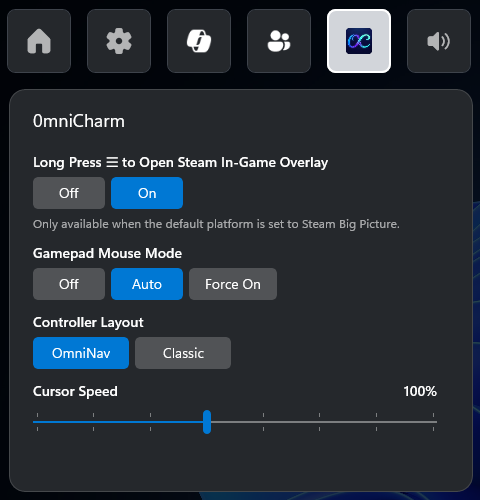
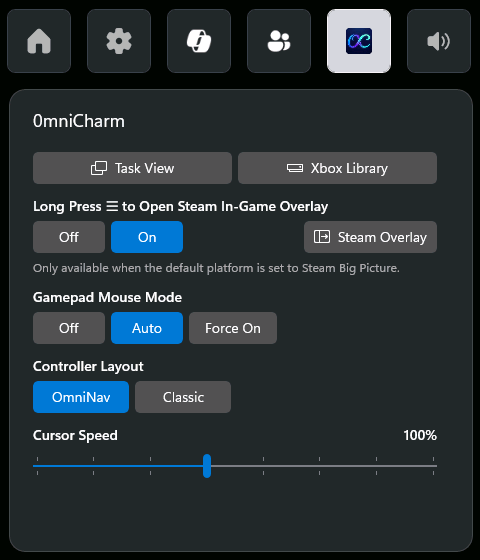
docs: Bump version to 1.9.0.0 and expand OmniCharm shortcuts
- Bumped the application package versions to `1.9.0.0` in `Package.appxmanifest` for both the main app and `OmniConsole.PhantomLink`, and updated the GitHub issue template.
- Expanded the "OmniCharm Widget" feature description in the READMEs to highlight new quick access shortcuts for Task View, the Xbox Library, and the Steam Overlay.
- Updated the Uninstallation section to explicitly instruct users to uninstall the OmniCharm widget via Windows Settings, noting that it does not appear in the Start Menu.
- Standardized references to "Windows Settings" across the document and removed the "(Highly Recommended)" tag from the FSE startup option.
- Refreshed application and widget screenshots (`docs/images/`) to reflect the latest UI updates.

diff --git a/README.zh-TW.md b/README.zh-TW.md
@@ -50,7 +50,7 @@ OmniConsole 作為 Windows 11 全螢幕體驗 (FSE) 首頁殼層，在您的 PC 
 - **疑難排解頁面** – 專屬頁面提供緊急修復途徑：結束 Game Bar 並繞過 FSE 確認對話方塊，直接進入 FSE。
 - **手把支援** – 使用**方向鍵**或**左搖桿**導覽，**A 鍵**確認、**B 鍵**退出、**LB/RB** 切換分類索引標籤、**Y 鍵**新增自訂平台、**X 鍵**編輯、**Menu（☰）鍵**將聚焦平台設為預設並立即啟動（在 FSE 模式中）。
 - **手把滑鼠模式** – 以手把作為滑鼠與鍵盤使用。三種模式：**關閉**、**自動**（瀏覽器、檔案總管、Steam、Epic Games Store）與**強制開啟**（所有應用程式，排除清單除外）。提供兩種控制器版面配置：**OmniNav** 和 **Classic**，可調整游標速度。
-- **OmniCharm 小工具** – Game Bar 小工具，在遊戲中快速切換長按 ☰ 開啟 Steam 遊戲內嵌介面、手把滑鼠模式、控制器版面配置與游標速度。
+- **OmniCharm 小工具** – 提供遊戲中快速存取的 Game Bar 小工具，包含**工作檢視**、**Xbox 媒體櫃**與 **Steam 內嵌介面**捷徑，並可即時切換長按 ☰ 開啟 Steam 遊戲內嵌介面、手把滑鼠模式、控制器版面配置與游標速度。
 - **手把 Steam 快捷鍵** – 為 Steam Big Picture 模式提供手把 **⧉** 按鍵支援：短按開啟 **Steam 選單**，長按喚出**快速存取選單**。在遊戲中長按 **☰** 可開啟 **Steam 遊戲內嵌介面**。
 - **專屬設定入口** – 在「所有應用程式」中獨立顯示「**OmniConsole 設定**」，隨時可更改預設平台。
 - **原生 FSE 整合** – 透過 Windows 11 全螢幕體驗 API 註冊為首頁應用程式。
@@ -81,7 +81,7 @@ OmniConsole 作為 Windows 11 全螢幕體驗 (FSE) 首頁殼層，在您的 PC 
 
 **方式 B：手動安裝**
 
-1.  **[重要]** 前往**設定 → 系統 → 進階**，啟用**開發人員模式**。
+1.  **[重要]** 前往 **Windows 設定 → 系統 → 進階**，啟用**開發人員模式**。
 2.  **[重要]** 點兩下 `.cer` 檔案 → 點選**安裝憑證** → 存放區位置選擇**本機電腦** → **將所有憑證放入以下的存放區** → 瀏覽 → 選擇**受信任的人** → 完成。
 3.  點兩下 `OmniConsole_*_x64.msix` 安裝主程式。
 4.  點兩下 `OmniConsole.PhantomLink_*_x64-widget.msix` 安裝 OmniCharm 小工具。
@@ -106,9 +106,9 @@ OmniConsole 會在**首次啟動**或**應用程式更新後**彈出設定介面
   <img src="docs/images/fse-settings.zh-TW.png" alt="Windows 全螢幕體驗設定" height="221">
 </p>
 
-1.  前往**Windows 設定 → 遊戲 → 全螢幕體驗**。
+1.  前往 **Windows 設定 → 遊戲 → 全螢幕體驗**。
 2.  將「選擇首頁應用程式」設為 **OmniConsole**。
-3.  啟用「**啟動時進入全螢幕體驗**」（**強烈建議**）。
+3.  啟用「**啟動時進入全螢幕體驗**」。
 
 ### 4. 完成！
 
@@ -124,9 +124,10 @@ OmniConsole 會在**首次啟動**或**應用程式更新後**彈出設定介面
 
 > ⚠ **解除安裝前，請務必先變更 FSE 首頁應用程式設定。** 若在 OmniConsole 仍設為 FSE 首頁應用程式的情況下直接解除安裝，部分 Windows 版本的**工作檢視將無法正常開啟**。這是 Windows 本身的 Bug。
 
-1. 前往**設定 → 遊戲 → 全螢幕體驗**。
+1. 前往 **Windows 設定 → 遊戲 → 全螢幕體驗**。
 2. 將「選擇首頁應用程式」改為 **Xbox** 或 **無**。
-3. 從**設定 → 應用程式 → 已安裝的應用程式**中解除安裝 **OmniConsole**，或在開始功能表中對 **OmniConsole** 按右鍵選擇**解除安裝**。
+3. 在開始功能表中對 **OmniConsole** 按右鍵選擇**解除安裝**，或前往 **Windows 設定 → 應用程式 → 已安裝的應用程式**解除安裝。
+4. 前往 **Windows 設定 → 應用程式 → 已安裝的應用程式**解除安裝 **OmniCharm**（小工具不會出現在開始功能表）。
 
 ---
 

diff --git a/README.md b/README.md
@@ -50,7 +50,7 @@ OmniConsole serves as the Windows 11 Full Screen Experience (FSE) Home shell on 
 - **Troubleshoot Page** – A dedicated page for emergency FSE recovery: terminates Game Bar and enters FSE directly, bypassing the FSE confirmation dialog.
 - **Gamepad Support** – Navigate with **D-Pad** or **Left Stick**, press **A** to confirm, **B** to exit, **LB/RB** to switch category tabs, **Y** to add a custom platform, **X** to edit, and **Menu (☰)** to set the focused platform as default and launch it immediately (in FSE mode).
 - **Gamepad Mouse Mode** – Uses your gamepad as a mouse and keyboard. Three modes: **Off**, **Auto** (browsers, File Explorer, Steam, Epic Games Store), and **Force On** (all apps except an exclusion list). Two controller layouts: **OmniNav** and **Classic**, with adjustable cursor speed.
-- **OmniCharm Widget** – A Game Bar widget for quickly toggling long-press ☰ to open Steam In-Game Overlay, switching Gamepad Mouse Mode, changing controller layouts, and adjusting cursor speed during gameplay.
+- **OmniCharm Widget** – A Game Bar widget for in-game quick access to **Task View**, the **Xbox Library**, and the **Steam Overlay**, as well as toggling long-press ☰ to open Steam In-Game Overlay, Gamepad Mouse Mode, controller layouts, and cursor speed.
 - **Gamepad Steam Shortcuts** – Gamepad **⧉** button support for Steam Big Picture mode: short press to open the **Steam Menu**, long press for the **Quick Access Menu**. Long press **☰** in-game to open the **Steam In-Game Overlay**.
 - **Dedicated Settings Entry** – A separate "**OmniConsole Settings**" entry appears in All Apps, so you can change your default platform anytime.
 - **Native FSE Integration** – Registers as a Windows 11 Full Screen Experience Home App through the official FSE API.
@@ -106,9 +106,9 @@ OmniConsole will present the Settings UI on **first launch** or **after app upda
   <img src="docs/images/fse-settings.png" alt="Full Screen Experience Settings" height="221">
 </p>
 
-1.  Go to **Settings → Gaming → Full Screen Experience**.
+1.  Go to **Windows Settings → Gaming → Full Screen Experience**.
 2.  Set "Choose home app" to **OmniConsole**.
-3.  Enable **"Enter full screen experience on startup"** (**Highly Recommended**).
+3.  Enable **"Enter full screen experience on startup"**.
 
 ### 4. Done!
 
@@ -124,9 +124,10 @@ Your gaming platform now launches via any of these entry points:
 
 > ⚠ **Change the FSE Home App setting _before_ uninstalling OmniConsole.** If OmniConsole is removed while it is still set as the FSE Home App, Windows **Task View will stop working** on some builds. This is a bug in Windows itself.
 
-1. Go to **Settings → Gaming → Full Screen Experience**.
+1. Go to **Windows Settings → Gaming → Full Screen Experience**.
 2. Set "Choose home app" to **Xbox** or **None**.
-3. Uninstall **OmniConsole** from **Settings → Apps → Installed apps**, or right-click **OmniConsole** in the Start Menu and select **Uninstall**.
+3. Right-click **OmniConsole** in the Start Menu and select **Uninstall**, or go to **Windows Settings → Apps → Installed apps** to uninstall it.
+4. Go to **Windows Settings → Apps → Installed apps** and uninstall **OmniCharm** (the widget does not appear in the Start Menu).
 
 ---
 
